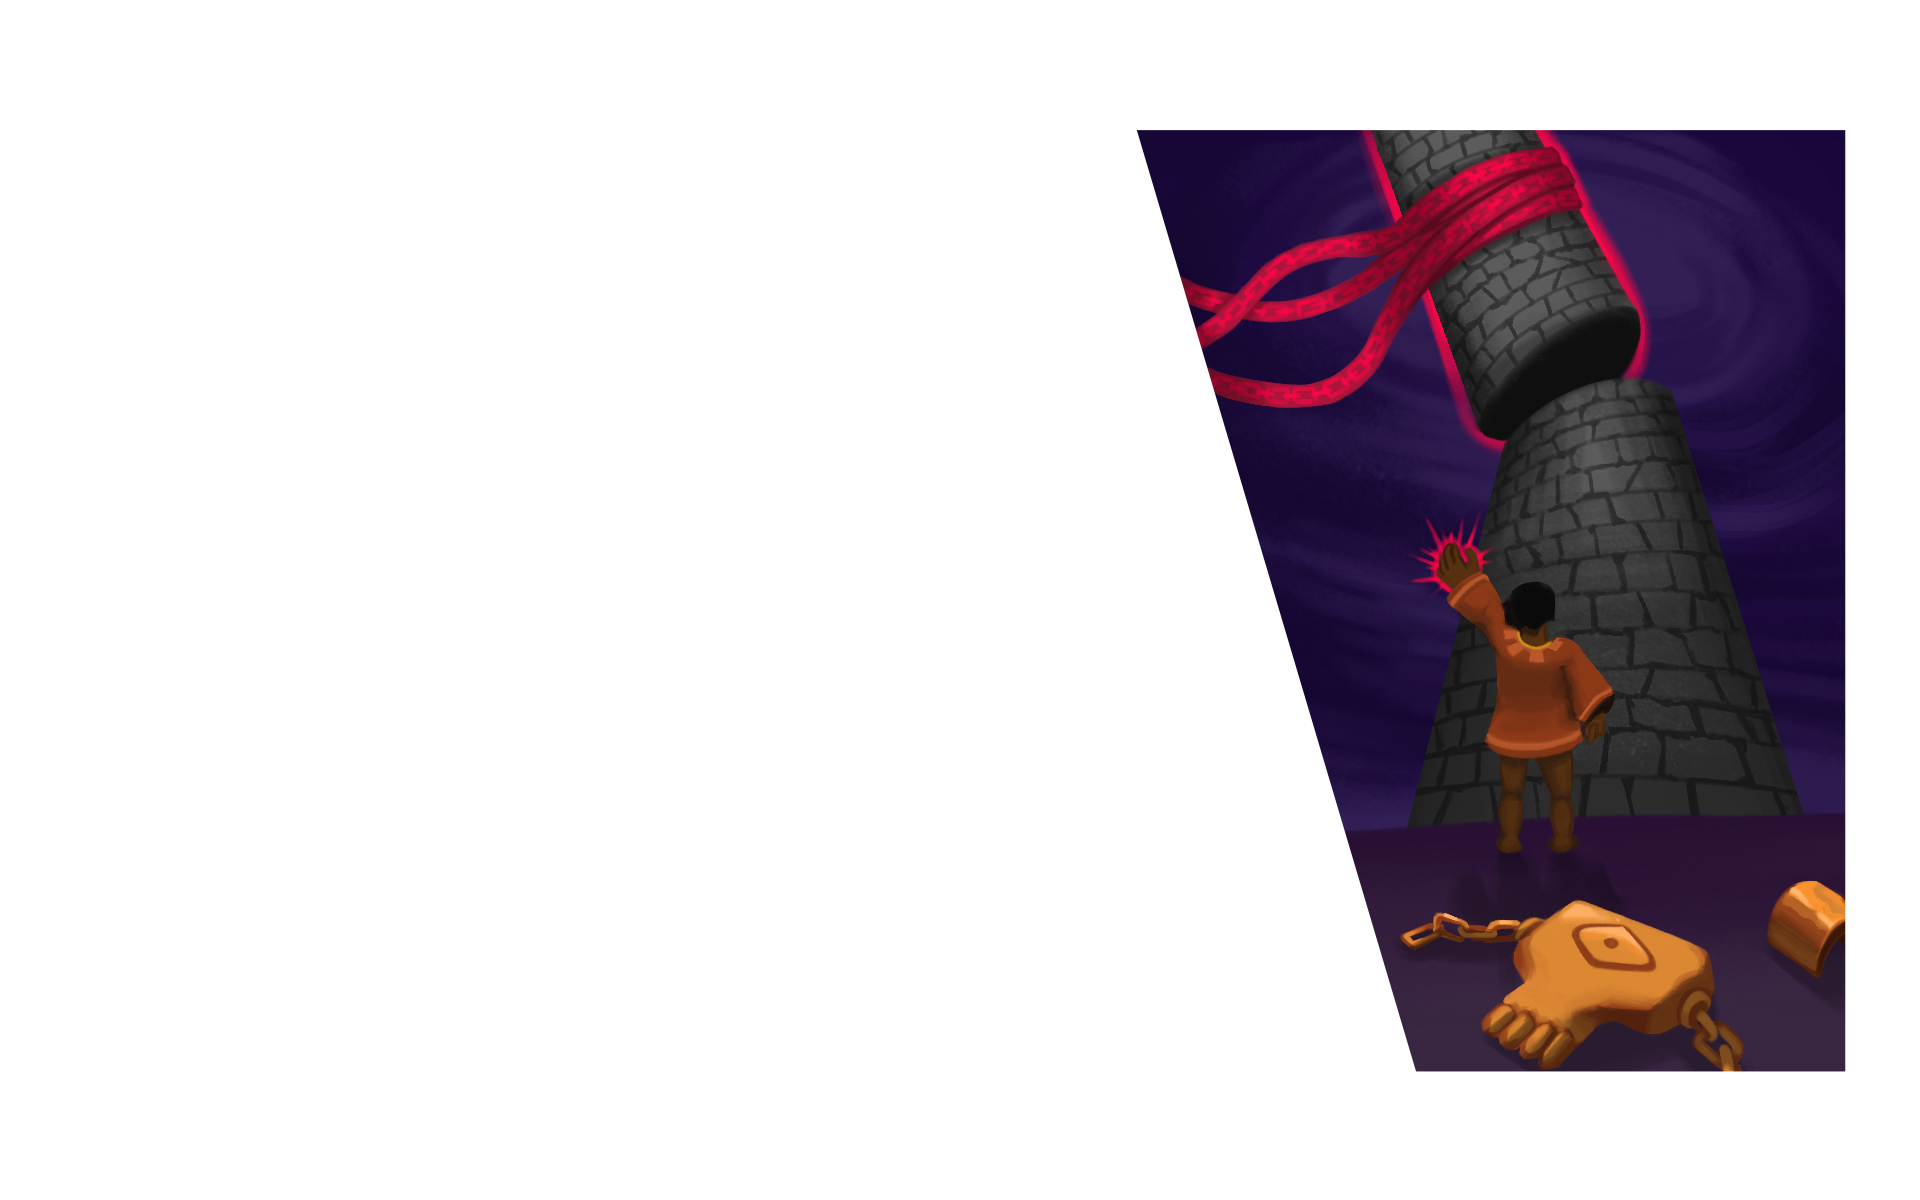
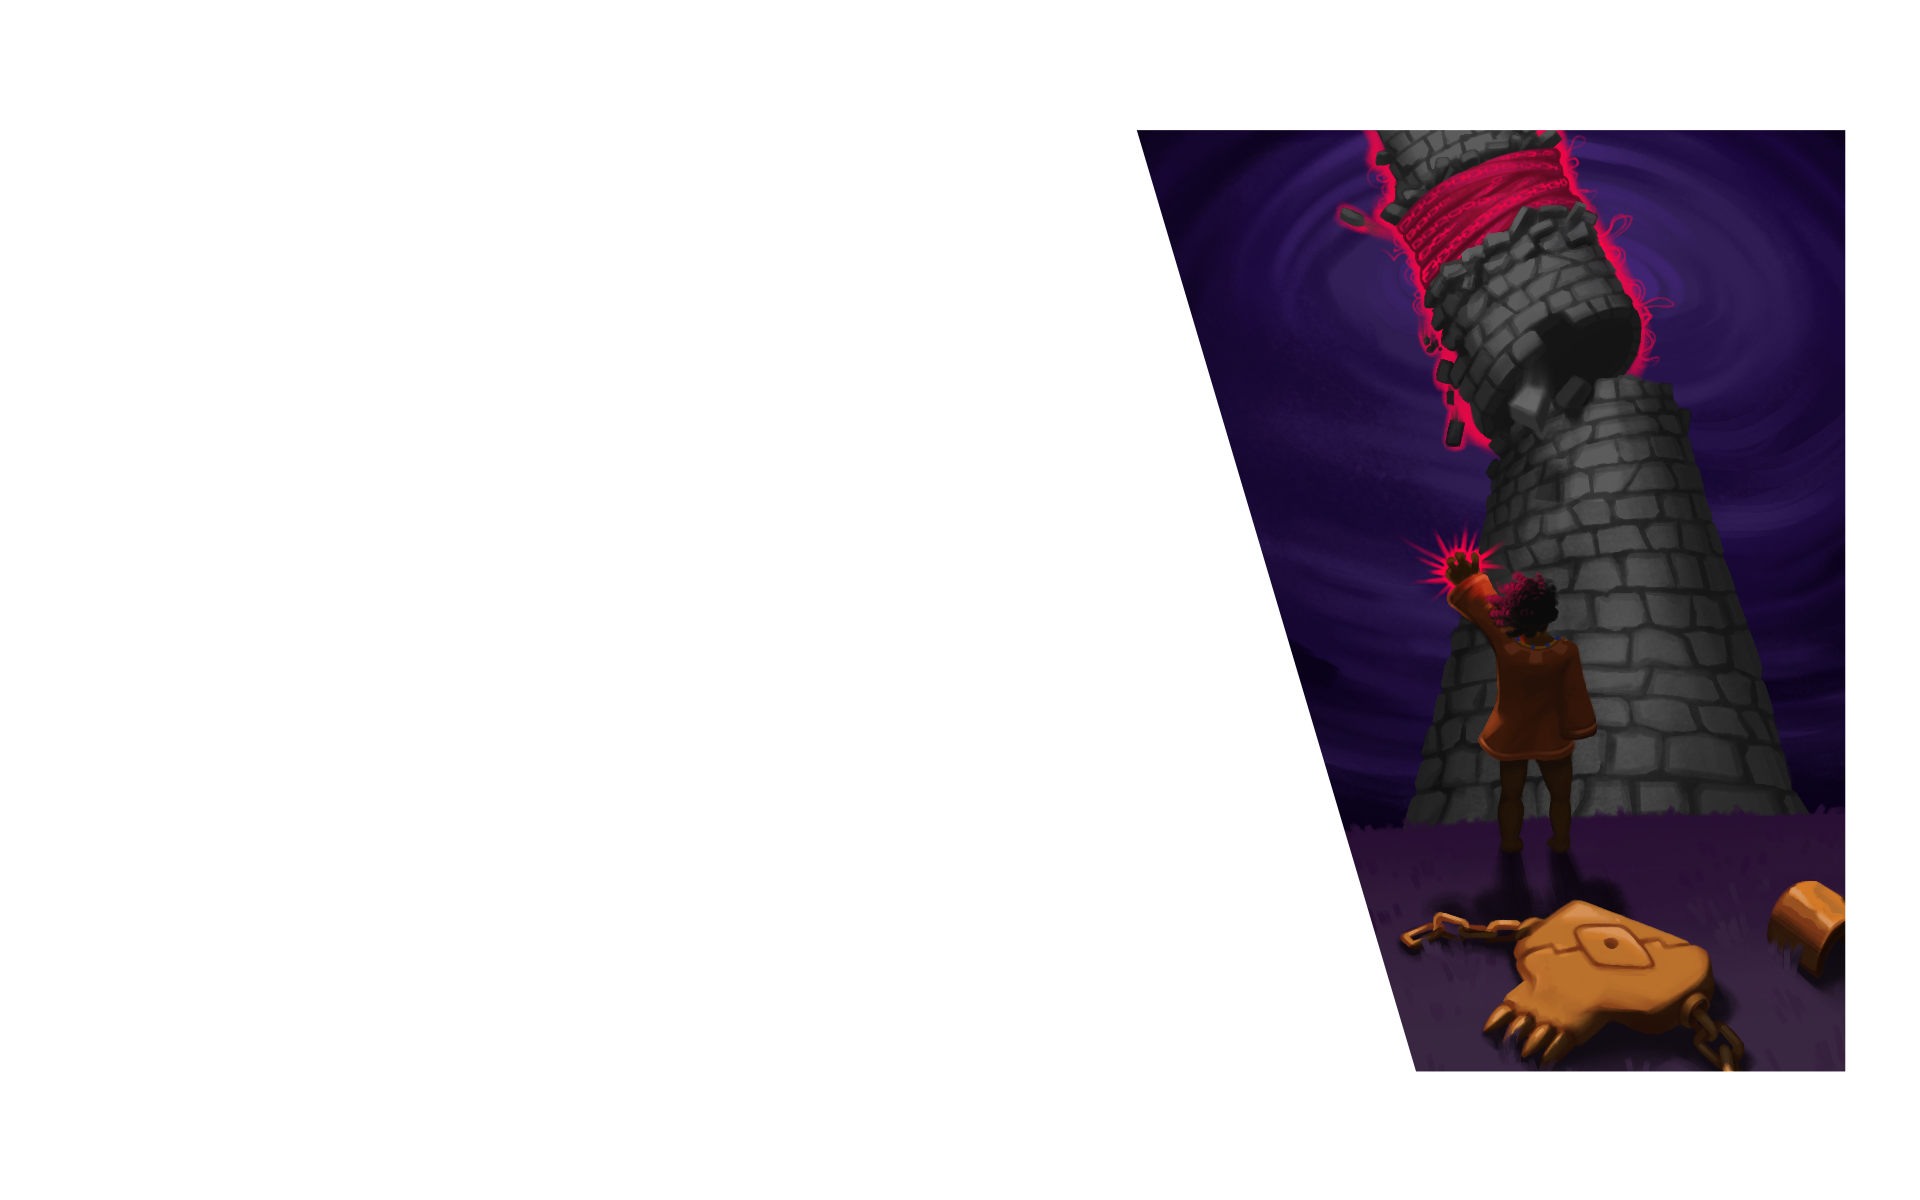
Added a new third Panel for the heart comic. Added a new Picture for the background of the heart comic.

diff --git a/theUnchainedMod/src/main/java/theUnchainedMod/characters/TheDefault.java b/theUnchainedMod/src/main/java/theUnchainedMod/characters/TheDefault.java
@@ -3,6 +3,7 @@ package theUnchainedMod.characters;
 import basemod.abstracts.CustomPlayer;
 import basemod.animations.SpineAnimation;
 import com.badlogic.gdx.graphics.Color;
+import com.badlogic.gdx.graphics.Texture;
 import com.badlogic.gdx.graphics.g2d.BitmapFont;
 import com.esotericsoftware.spine.AnimationState;
 import com.evacipated.cardcrawl.modthespire.lib.SpireEnum;
@@ -15,6 +16,7 @@ import com.megacrit.cardcrawl.core.Settings;
 import com.megacrit.cardcrawl.cutscenes.CutscenePanel;
 import com.megacrit.cardcrawl.helpers.CardLibrary;
 import com.megacrit.cardcrawl.helpers.FontHelper;
+import com.megacrit.cardcrawl.helpers.ImageMaster;
 import com.megacrit.cardcrawl.helpers.ScreenShake;
 import com.megacrit.cardcrawl.localization.CharacterStrings;
 import com.megacrit.cardcrawl.screens.CharSelectInfo;
@@ -28,6 +30,7 @@ import theUnchainedMod.relics.RustedChains;
 import java.util.ArrayList;
 import java.util.List;
 
+import static com.megacrit.cardcrawl.helpers.ImageMaster.loadImage;
 import static theUnchainedMod.DefaultMod.*;
 import static theUnchainedMod.characters.TheDefault.Enums.COLOR_GRAY;
 
@@ -183,6 +186,12 @@ public class TheDefault extends CustomPlayer {
         panels.add(new CutscenePanel(makeComicPath("Unchained_comic_3.png")));
         return panels;
     }
+
+    @Override
+    public Texture getCutsceneBg() {
+        return loadImage(makeComicPath("Unchained_comic_bg.png"));
+    }
+
 
     // character Select screen effect
     @Override
